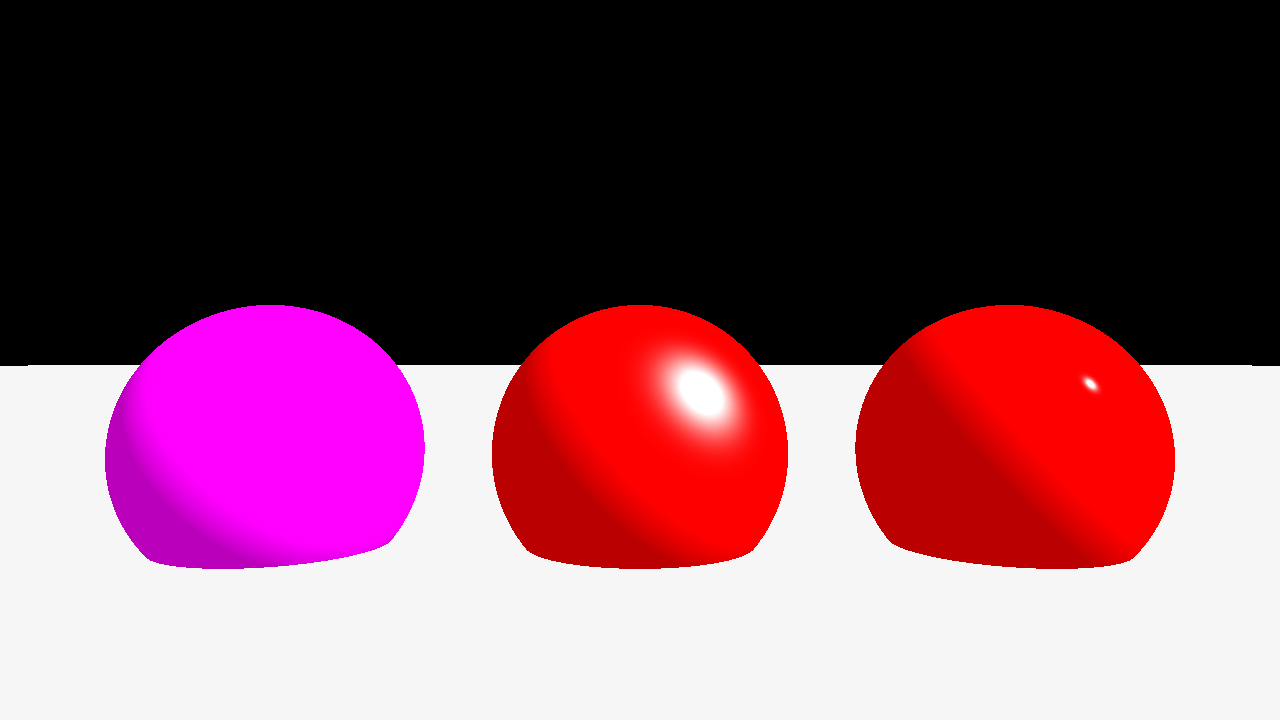
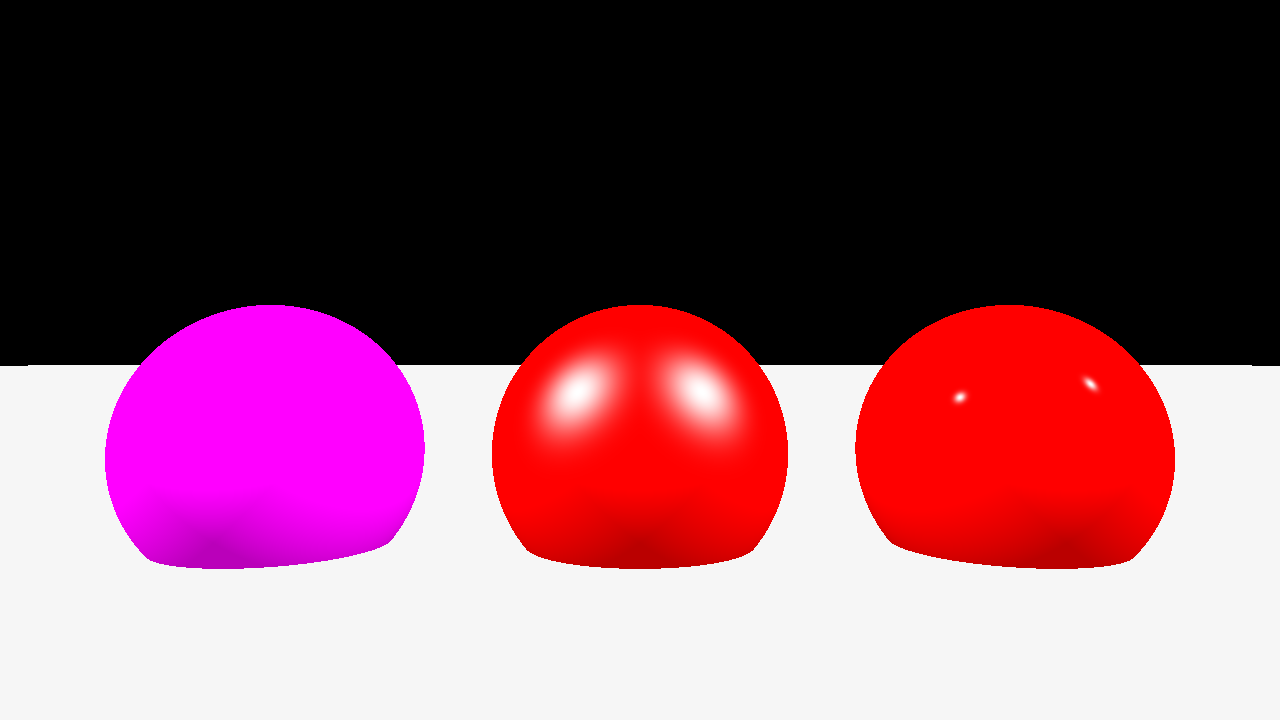
completed A4.3 fixed

diff --git a/src/app/Raytracer.java b/src/app/Raytracer.java
@@ -20,23 +20,13 @@ public record Raytracer(Camera cam, GroupShape scene, List<Light> lights, Color 
         Vec3 to_viewer = Vec3.normalize(Vec3.negate(ray.d));
         //Vec3 to_light = Vec3.normalize(new Vec3(1, 1, .5));
         Color ambient = material.ambient(h, ambient_light);
-        Vec3 hit_pos = h.x();
 
         for(Light light : lights) {
-            Vec3 to_light_vec = Vec3.normalize(light.to_light(hit_pos));
-            double eps = Util.EPSILON;
-            Vec3 shadow_origin_calc = Vec3.multiply(to_light_vec, eps);
-            Vec3 shadow_origin = Vec3.add(shadow_origin_calc, hit_pos);
-            double max_dist = light.distance(hit_pos);
-            Ray shadow_ray = new Ray(shadow_origin, to_light_vec, eps, max_dist);
-            Hit shadow_hit = scene.intersect(shadow_ray);            
-
-            if(shadow_hit == null || shadow_hit.t() >= max_dist) {
-                Color incoming_light = light.color_at(hit_pos);
-                Color contrib = material.shade(h, to_viewer, to_light_vec, incoming_light);            
-                ambient = Color.add(ambient, contrib);
-            }
-
+            Vec3 hit_pos = h.x();
+            Vec3 to_light_vec = light.to_light(hit_pos);
+            Color incoming_light = light.color_at(hit_pos);
+            Color contrib = material.shade(h, to_viewer, to_light_vec, incoming_light);            
+            ambient = Color.add(ambient, contrib);
         }
 
         return ambient;

diff --git a/src/app/app.java b/src/app/app.java
@@ -24,7 +24,7 @@ public class app {
     Camera cam = new Camera(width, height, 70.0);
     GroupShape scene = new GroupShape();
 
-    DirectionalLight light1 = new DirectionalLight(Color.white, new Vec3(-1,1,-.5));
+    DirectionalLight light1 = new DirectionalLight(Color.white, new Vec3(1,-1,-.5));
     DirectionalLight light2 = new DirectionalLight(Color.white, new Vec3(-1,-1,-.5));
     List<Light> list = new ArrayList<>();
     list.add(light1);
@@ -45,6 +45,6 @@ public class app {
     Raytracer raytracer = new Raytracer(cam, scene, list, Color.gray, Color.gray);
     image.sample(raytracer);
     // Write the image to disk.
-    image.writePNG("a04-shadows");
+    image.writePNG("a04-directional");
   }
 }
